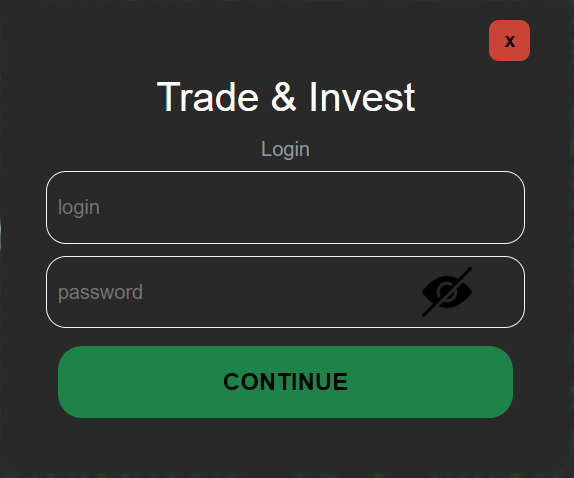
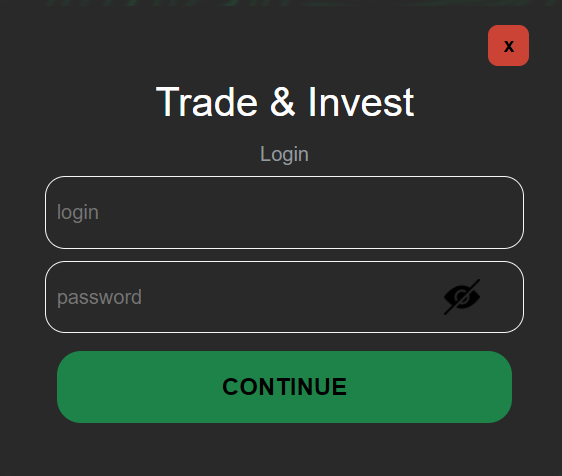
refactor: readme

diff --git a/src/pages/registration/registrationIndex.js b/src/pages/registration/registrationIndex.js
@@ -136,8 +136,8 @@ const RegistrationPage = () => {
                                 <div>Password</div>
                                 <div style={{color:errPassword}}>Password does not meet security requirements</div>
                             </div>
-                            <div className='registration-form__input'>
-                                <label title='Password must include a minimum of 6 characters, both upper and lower case, and at least one number.'>
+                            <div className='registration-form__input password'>
+                                <label className='input-password-registration' title='Password must include a minimum of 6 characters, both upper and lower case, and at least one number.'>
                                     <input id='input-password-registration' type='password' className='input-password-registration' onChange={onChangePassword}></input>
                                 </label>
                                 <label className='check'>
@@ -153,12 +153,12 @@ const RegistrationPage = () => {
                                 </label>
                             </div>
                         </div>
-                        <div>
-                            <div className='registration-form__subtitle password'>
+                        <div className='registration-form__password'>
+                            <div className='registration-form__subtitle'>
                                 <div>Confirm the password</div>
                                 <div style={{color:errConfirmPassword}}>Password does not match</div>
                             </div>
-                            <div className='registration-form__input' >
+                            <div className='registration-form__input password' >
                                 <input type='password' className='input-password-registration' onChange={onChangeConfirmPassword}></input>
                                 <label className='check'>
                                     <input 

diff --git a/src/components/login/loginStyle.scss b/src/components/login/loginStyle.scss
@@ -66,7 +66,7 @@
   }
 
   .input-password-login{
-    width: 80%;
+    width: 85%;
     font-size: 1rem;
     border: none;
     outline:none;
@@ -75,6 +75,9 @@
   }
 
   .check{
+    display: flex;
+    align-items: center;
+
     &__input{
       -moz-appearance: none;
       -webkit-appearance: none;
@@ -83,8 +86,8 @@
 
     &__box{
       position: absolute;
-      height: 2.5em;
-      width: 2.5em;
+      height: 1.8em;
+      width: 1.8em;
       background-size: cover;
       cursor: pointer;
     }

diff --git a/README.md b/README.md
@@ -36,20 +36,20 @@ Trade and Invest is a virtual platform, where you can purchase various types of 
 
 <p align="center"><img src="screenshots/login.png" width="300"/><img src="screenshots/loginErr.png" width="300"/></p>
 
-На этапе логирования осуществляется проверка наличия данного пользователя и корректности введенного пароля. В случае успеха, пользователь попадает на пользовательский аккаунт.
+На этапе авторизации осуществляется проверка существования пользователя и корректности введенного пароля.
 
 - ### Portfolio
 
 <p align="center"><img src="screenshots/portfolio.png" width="500"/></p>
 
-На данной странице аккаунта выводится информация обо всех активах, имеющихся в портфеле. Круговая диаграмма изменяет пропорции в зависимости от объёма вида актива в портфеле.
+На данной странице аккаунта выводится информация обо всех активах, имеющихся в портфеле. Круговая диаграмма изменяет пропорции в зависимости от объёма актива в портфеле.
 
 - ### Trade
 
 <p align="center"><img src="screenshots/trade.png" width="400"/><img src="screenshots/tradeWindow.png" width="400"/></p>
 
-Данная страница аккаунта содержит 3 вкладки с различными активами (акции, криптовалюты, валюты), курс актива изменяется каждые 5 секунд, также при изменении курса выводится процент увеличения/уменьшения нового курса относительно предыдущего.<br/>
-При осуществлении покупки/продажи активов открывается окно содержащую информацию: курс актива, текущий баланс, график изменения курса. В данном окне возможно осуществление выбора необходимого количества актива для покупки/продажи, в случае недостаточности валюты Система не позволит осуществить операцию.
+Данная страница аккаунта содержит 3 вкладки с различными активами (акции, криптовалюты, валюты), курс актива изменяется каждые 5 секунд, также при изменении курса выводится темп прироста.<br/>
+При осуществлении покупки/продажи активов открывается окно со следующей информацией: курс актива, текущий баланс, график изменения курса. В данном окне возможно осуществление выбора необходимого количества актива для покупки/продажи. В случае отсутствия необходимого количества валюты система не позволит осуществить операцию.
 
 - ### Wallet
 
@@ -61,17 +61,17 @@ Trade and Invest is a virtual platform, where you can purchase various types of 
 
 <p align="center"><img src="screenshots/profile.png" width="400"/><img src="screenshots/changePassword.png" width="400"/></p>
 
-На странице профиля выводится информация о пользователе, на карточке пользователя имеется возможность изменение данных и пароля, все необходимые валидации имеются в Системе.
+На странице профиля выводится информация о пользователе. На карточке пользователя имеется возможность изменение данных и пароля.
 
 - ### Help
 
 <p align="center"><img src="screenshots/help.png" width="500"/></p>
 
-На станице помощи имеется возможность отправки сообщения на сервер, информация попадает по адресу http://localhost:3001/help. Объект на сервере сожержит: id, login, title, text.
+На станице помощи имеется возможность отправки сообщения на сервер (http://localhost:3001/help). Объект на сервере сожержит: id, login, title, text.
 
 - ### Json-server
 
-На порту http://localhost:3001 разворачивается json-server, имеющий 2 эндпоита profile и help, на данный сервер попадает вся информация из площадки Trade&Invest.
+На порту http://localhost:3001 разворачивается json-server, имеющий 2 эндпоита profile и help. На данный сервер попадает вся информация из площадки Trade&Invest.
 
 http://localhost:3001/profile - содержит информацию о зарегистрированных пользователях.
 http://localhost:3001/help - содержит информацию о сообщениях помощи отправленных с аккаунтов.
@@ -93,15 +93,12 @@ http://localhost:3001/help - содержит информацию о сообщ
     ```
    npm install -g json-server
     ```
-4. Выполнить команду (после выполнения команды на потру http://localhost:3000 развернется проект);
+4. Выполнить команду (после выполнения команды, на потре http://localhost:3000 развернется проект);
     ```
    npm start
     ```  
-или скрипт (react-scripts start)
-
-5. Для запуска секвера выполнить скрипт в другом терминале;
+5. Для запуска сервера выполнить скрипт в другом терминале;
     ```
    json-server --watch db.json --port 3001
-    ``` 
-    
+    ```  
 После выполнения на порту http://localhost:3001 развернется json-server.
